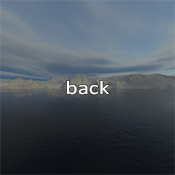
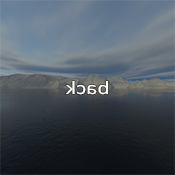
Spheres are see-through with glass shader

Changed region(s): [[0.0, 0.2286, 1.0, 0.5429]]

diff --git a/scene/openglscene.cpp b/scene/openglscene.cpp
@@ -43,31 +43,31 @@ OpenGLScene::~OpenGLScene()
 
 void OpenGLScene::init()
 {
-    m_shader = ResourceLoader::loadShaders(
-            ":/shaders/default.vert",
-            ":/shaders/default.frag");
+//    m_shader = ResourceLoader::loadShaders(
+//            ":/shaders/default.vert",
+//            ":/shaders/default.frag");
     m_cubeShader = ResourceLoader::loadShaders(
                 ":/shaders/cube.vert",
                 ":/shaders/cube.frag");
-//    m_shader = ResourceLoader::loadShaders(
-//                ":/shaders/metal.vert",
-//                ":/shaders/metal.frag");
+    m_shader2 = ResourceLoader::loadShaders(
+                ":/shaders/glass.vert",
+                ":/shaders/glass.frag");
 
-    m_uniformLocs["p"]= glGetUniformLocation(m_shader, "p");
-    m_uniformLocs["m"]= glGetUniformLocation(m_shader, "m");
-    m_uniformLocs["v"]= glGetUniformLocation(m_shader, "v");
-    m_uniformLocs["allBlack"]= glGetUniformLocation(m_shader, "allBlack");
-    m_uniformLocs["useLighting"]= glGetUniformLocation(m_shader, "useLighting");
-    m_uniformLocs["ambient_color"] = glGetUniformLocation(m_shader, "ambient_color");
-    m_uniformLocs["diffuse_color"] = glGetUniformLocation(m_shader, "diffuse_color");
-    m_uniformLocs["specular_color"] = glGetUniformLocation(m_shader, "specular_color");
-    m_uniformLocs["shininess"] = glGetUniformLocation(m_shader, "shininess");
-    m_uniformLocs["useTexture"] = glGetUniformLocation(m_shader, "useTexture");
-    m_uniformLocs["tex"] = glGetUniformLocation(m_shader, "tex");
-    m_uniformLocs["useArrowOffsets"] = glGetUniformLocation(m_shader, "useArrowOffsets");
-    m_uniformLocs["blend"] = glGetUniformLocation(m_shader, "blend");
-    m_uniformLocs["repeatU"] = glGetUniformLocation(m_shader, "repeatU");
-    m_uniformLocs["repeatV"] = glGetUniformLocation(m_shader, "repeatV");
+//    m_uniformLocs["p"]= glGetUniformLocation(m_shader, "p");
+//    m_uniformLocs["m"]= glGetUniformLocation(m_shader, "m");
+//    m_uniformLocs["v"]= glGetUniformLocation(m_shader, "v");
+//    m_uniformLocs["allBlack"]= glGetUniformLocation(m_shader, "allBlack");
+//    m_uniformLocs["useLighting"]= glGetUniformLocation(m_shader, "useLighting");
+//    m_uniformLocs["ambient_color"] = glGetUniformLocation(m_shader, "ambient_color");
+//    m_uniformLocs["diffuse_color"] = glGetUniformLocation(m_shader, "diffuse_color");
+//    m_uniformLocs["specular_color"] = glGetUniformLocation(m_shader, "specular_color");
+//    m_uniformLocs["shininess"] = glGetUniformLocation(m_shader, "shininess");
+//    m_uniformLocs["useTexture"] = glGetUniformLocation(m_shader, "useTexture");
+//    m_uniformLocs["tex"] = glGetUniformLocation(m_shader, "tex");
+//    m_uniformLocs["useArrowOffsets"] = glGetUniformLocation(m_shader, "useArrowOffsets");
+//    m_uniformLocs["blend"] = glGetUniformLocation(m_shader, "blend");
+//    m_uniformLocs["repeatU"] = glGetUniformLocation(m_shader, "repeatU");
+//    m_uniformLocs["repeatV"] = glGetUniformLocation(m_shader, "repeatV");
 }
 
 void OpenGLScene::render(Camera *cam)
@@ -89,34 +89,37 @@ void OpenGLScene::render(Camera *cam)
     glUniformMatrix4fv(glGetUniformLocation(m_cubeShader, "p"), 1, GL_FALSE,
             glm::value_ptr(projMatrix));
     glUniformMatrix4fv(glGetUniformLocation(m_cubeShader, "v"), 1, GL_FALSE,
-                       glm::value_ptr(glm::rotate(viewMatrix, (float) M_PI, glm::vec3(0, 1, 0))));
+                       glm::value_ptr(viewMatrix));
+//    glUniformMatrix4fv(glGetUniformLocation(m_cubeShader, "v"), 1, GL_FALSE,
+//                       glm::value_ptr(glm::rotate(viewMatrix, (float) M_PI, glm::vec3(0, 1, 0))));
     glUniform1i(glGetUniformLocation(m_cubeShader, "envMap"), 1);
 
     renderSetting();
 
     glDepthMask(GL_TRUE);
-    glUseProgram(m_shader);
+    glUseProgram(m_shader2);
 
     // Set scene uniforms.
     clearLights();
     setLights(viewMatrix);
-    glUniform1i(m_uniformLocs["useLighting"], m_useLighting);
-    glUniform1i(m_uniformLocs["useArrowOffsets"], GL_FALSE);
-    glUniformMatrix4fv(m_uniformLocs["p"], 1, GL_FALSE,
-            glm::value_ptr(projMatrix));
-    glUniformMatrix4fv(m_uniformLocs["v"], 1, GL_FALSE,
-            glm::value_ptr(viewMatrix));
-    glUniformMatrix4fv(m_uniformLocs["m"], 1, GL_FALSE,
-            glm::value_ptr(m_elements.value(0)->trans));
-    glUniform3f(m_uniformLocs["allBlack"], 1, 1, 1);
+//    glUniform1i(m_uniformLocs["useLighting"], m_useLighting);
+//    glUniform1i(m_uniformLocs["useArrowOffsets"], GL_FALSE);
+//    glUniformMatrix4fv(m_uniformLocs["p"], 1, GL_FALSE,
+//            glm::value_ptr(projMatrix));
+//    glUniformMatrix4fv(m_uniformLocs["v"], 1, GL_FALSE,
+//            glm::value_ptr(viewMatrix));
+//    glUniformMatrix4fv(m_uniformLocs["m"], 1, GL_FALSE,
+//            glm::value_ptr(m_elements.value(0)->trans));
+//    glUniform3f(m_uniformLocs["allBlack"], 1, 1, 1);
 
     // metal stuffs
-//    glUniformMatrix4fv(glGetUniformLocation(m_shader, "view"), 1, GL_FALSE,
-//                       glm::value_ptr(viewMatrix));
-//    glUniformMatrix4fv(glGetUniformLocation(m_shader, "projection"), 1, GL_FALSE,
-//                       glm::value_ptr(cam->getProjectionMatrix()));
-//    glUniformMatrix4fv(glGetUniformLocation(m_shader, "model"), 1, GL_FALSE,
+    glUniformMatrix4fv(glGetUniformLocation(m_shader2, "view"), 1, GL_FALSE,
+                       glm::value_ptr(viewMatrix));
+    glUniformMatrix4fv(glGetUniformLocation(m_shader2, "projection"), 1, GL_FALSE,
+                       glm::value_ptr(cam->getProjectionMatrix()));
+//    glUniformMatrix4fv(glGetUniformLocation(m_shader2, "model"), 1, GL_FALSE,
 //                       glm::value_ptr(m_elements.value(0)->trans));
+    glUniform1i(glGetUniformLocation(m_shader2, "envMap"), 1);
 
 //    glUniform4fv(glGetUniformLocation(m_shader, "lightPosition"), 1, glm::value_ptr(glm::vec4(-5, 5, 5, 1)));
 
@@ -141,26 +144,27 @@ void OpenGLScene::applyMaterial(const CS123SceneMaterial &material)
     // Make sure the members of CS123SceneColor are packed tightly
     COMPILE_TIME_ASSERT(sizeof(CS123SceneColor) == sizeof(float) * 4);
 
-    glUniform3fv(m_uniformLocs["ambient_color"], 1, &material.cAmbient.r);
-    glUniform3fv(m_uniformLocs["diffuse_color"], 1, &material.cDiffuse.r);
-    glUniform3fv(m_uniformLocs["specular_color"], 1, &material.cSpecular.r);
-    glUniform1f(m_uniformLocs["shininess"], material.shininess);
+//    glUniform3fv(m_uniformLocs["ambient_color"], 1, &material.cAmbient.r);
+//    glUniform3fv(m_uniformLocs["diffuse_color"], 1, &material.cDiffuse.r);
+//    glUniform3fv(m_uniformLocs["specular_color"], 1, &material.cSpecular.r);
+//    glUniform1f(m_uniformLocs["shininess"], material.shininess);
 //    glUniform1f(glGetUniformLocation(m_shader, "m"), 0.15);
-//    glUniform1f(glGetUniformLocation(m_shader, "r0"), 0.3f);
+    glUniform1f(glGetUniformLocation(m_shader2, "r0"), 0.25f);
+    glUniform1f(glGetUniformLocation(m_shader2, "eta1D"), 1.f / 1.333f);
 
-    if (material.textureMap && material.textureMap->isUsed && material.textureMap->texid) {
-        glUniform1i(m_uniformLocs["useTexture"], 1);
-        glUniform1i(m_uniformLocs["tex"], 1);
-        glUniform1f(m_uniformLocs["blend"], material.blend);
-        glUniform1f(m_uniformLocs["repeatU"], material.textureMap->repeatU);
-        glUniform1f(m_uniformLocs["repeatV"], material.textureMap->repeatV);
+//    if (material.textureMap && material.textureMap->isUsed && material.textureMap->texid) {
+//        glUniform1i(m_uniformLocs["useTexture"], 1);
+//        glUniform1i(m_uniformLocs["tex"], 1);
+//        glUniform1f(m_uniformLocs["blend"], material.blend);
+//        glUniform1f(m_uniformLocs["repeatU"], material.textureMap->repeatU);
+//        glUniform1f(m_uniformLocs["repeatV"], material.textureMap->repeatV);
 
-        glActiveTexture(GL_TEXTURE1);
-        glBindTexture(GL_TEXTURE_2D, material.textureMap->texid);
-        glActiveTexture(GL_TEXTURE0);
-    } else {
-        glUniform1i(m_uniformLocs["useTexture"], 0);
-    }
+//        glActiveTexture(GL_TEXTURE1);
+//        glBindTexture(GL_TEXTURE_2D, material.textureMap->texid);
+//        glActiveTexture(GL_TEXTURE0);
+//    } else {
+//        glUniform1i(m_uniformLocs["useTexture"], 0);
+//    }
 }
 
 void OpenGLScene::clearLights()
@@ -169,7 +173,7 @@ void OpenGLScene::clearLights()
         std::ostringstream os;
         os << i;
         std::string indexString = "[" + os.str() + "]"; // e.g. [0], [1], etc.
-        glUniform3f(glGetUniformLocation(m_shader, ("lightColors" + indexString).c_str()), 0, 0, 0);
+//        glUniform3f(glGetUniformLocation(m_shader, ("lightColors" + indexString).c_str()), 0, 0, 0);
     }
 }
 
@@ -186,13 +190,13 @@ void OpenGLScene::setLight(const CS123SceneLightData &light)
     {
     case LIGHT_POINT:
         lightType = 0;
-        glUniform3fv(glGetUniformLocation(m_shader, ("lightPositions" + indexString).c_str()), 1,
-                glm::value_ptr(light.pos));
+//        glUniform3fv(glGetUniformLocation(m_shader, ("lightPositions" + indexString).c_str()), 1,
+//                glm::value_ptr(light.pos));
         break;
     case LIGHT_DIRECTIONAL:
         lightType = 1;
-        glUniform3fv(glGetUniformLocation(m_shader, ("lightDirections" + indexString).c_str()), 1,
-                glm::value_ptr(glm::normalize(light.dir)));
+//        glUniform3fv(glGetUniformLocation(m_shader, ("lightDirections" + indexString).c_str()), 1,
+//                glm::value_ptr(glm::normalize(light.dir)));
         break;
     default:
         lightType = -1;
@@ -203,11 +207,11 @@ void OpenGLScene::setLight(const CS123SceneLightData &light)
     CS123SceneColor color = light.color;
     if (ignoreLight) color.r = color.g = color.b = 0;
 
-    glUniform1i(glGetUniformLocation(m_shader, ("lightTypes" + indexString).c_str()), lightType);
-    glUniform3f(glGetUniformLocation(m_shader, ("lightColors" + indexString).c_str()),
-                color.r, color.g, color.b);
-    glUniform3f(glGetUniformLocation(m_shader, ("lightAttenuations" + indexString).c_str()),
-            light.function.x, light.function.y, light.function.z);
+//    glUniform1i(glGetUniformLocation(m_shader, ("lightTypes" + indexString).c_str()), lightType);
+//    glUniform3f(glGetUniformLocation(m_shader, ("lightColors" + indexString).c_str()),
+//                color.r, color.g, color.b);
+//    glUniform3f(glGetUniformLocation(m_shader, ("lightAttenuations" + indexString).c_str()),
+//            light.function.x, light.function.y, light.function.z);
 }
 
 

diff --git a/scene/scene.cpp b/scene/scene.cpp
@@ -90,12 +90,12 @@ void Scene::init()
 
     m_grid = new Grid(5.f);
     m_grid->calcVerts();
-    m_grid->updateGL(m_shader);
+    m_grid->updateGL(m_shader2);
     m_grid->cleanUp();
 
-    m_shape = new MusicShape(150, 70, 0.15f, m_shader);
+    m_shape = new MusicShape(150, 70, 0.15f, m_shader2);
     m_shape->calcVerts();
-    m_shape->updateGL(m_shader);
+    m_shape->updateGL(m_shader2);
     m_shape->cleanUp();
 
     CS123SceneMaterial& mat = m_elements.at(0)->primitive->material;
@@ -120,18 +120,25 @@ void Scene::renderGeometry()
 
     applyMaterial(m_elements.at(0)->primitive->material);
 
-    // Draw the grid.
-    glUniform1i(glGetUniformLocation(m_shader, "functionSize"), 0);
-    glUniform3f(glGetUniformLocation(m_shader, "allWhite"), 1, 1, 1); // make white
-    m_grid->transformAndRender(m_shader, glm::mat4());
+//    // Draw the grid.
+//    glUniform1i(glGetUniformLocation(m_shader, "functionSize"), 0);
+//    glUniform3f(glGetUniformLocation(m_shader, "allWhite"), 1, 1, 1); // make white
+//    m_grid->transformAndRender(m_shader, glm::mat4());
+
+    m_room->bindTexture();
 
     // Draw the shapes.
-    glUniform3f(glGetUniformLocation(m_shader, "allWhite"), 0, 0, 0); // not white
-    m_shape->transformAndRender(m_shader, m_elements.at(0)->trans);
+//    glUniform3f(glGetUniformLocation(m_shader, "allWhite"), 0, 0, 0); // not white
+    m_shape->transformAndRender(m_shader2, m_elements.at(0)->trans);
 
-    m_shape->transformAndRender(m_shader, glm::translate(glm::mat4(), glm::vec3(-2, 0, 0)));
+    m_shape->transformAndRender(m_shader2, glm::translate(
+                                    glm::rotate(glm::mat4(), (float) M_PI / 4.f, glm::vec3(1, 0, 0)),
+                                    glm::vec3(-2, 0, 0)));
+//    m_shape->transformAndRender(m_shader2, glm::rotate(
+//                                    glm::translate(glm::mat4(), glm::vec3(-2, 0, 0)),
+//                                    (float) M_PI / 2.f, glm::vec3(1, 0, 0)));
 
-    m_shape->transformAndRender(m_shader, glm::translate(glm::mat4(), glm::vec3(2, 0, 0)));
+    m_shape->transformAndRender(m_shader2, glm::translate(glm::mat4(), glm::vec3(2, 0, 0)));
 
 }
 

diff --git a/shapes/room.cpp b/shapes/room.cpp
@@ -2,8 +2,8 @@
 #include <QGLWidget>
 #include <QFile>
 
-#define BACK ":/images/front.png"
-#define FRONT ":/images/back.png"
+#define FRONT ":/images/front.png"
+#define BACK ":/images/back.png"
 #define BOTTOM ":/images/bottom.png"
 #define TOP ":/images/top.png"
 #define LEFT ":/images/left.png"
@@ -76,13 +76,19 @@ void Room::makeCubeMap()
 
 void Room::render()
 {
-    glActiveTexture(GL_TEXTURE1);
-    glBindTexture(GL_TEXTURE_CUBE_MAP, m_texID);
-    glActiveTexture(GL_TEXTURE0);
+    bindTexture();
 
     glBindVertexArray(m_vaoID);
     glDrawArrays(GL_TRIANGLE_STRIP, 0, 14);
     glBindVertexArray(0);
+}
+
+
+void Room::bindTexture()
+{
+    glActiveTexture(GL_TEXTURE1);
+    glBindTexture(GL_TEXTURE_CUBE_MAP, m_texID);
+    glActiveTexture(GL_TEXTURE0);
 }
 
 

diff --git a/shapes/shape.cpp b/shapes/shape.cpp
@@ -149,7 +149,7 @@ void Shape::render()
 void Shape::transformAndRender(GLuint shader, glm::mat4 trans)
 {
         glBindVertexArray(m_vaoID);
-        glUniformMatrix4fv(glGetUniformLocation(shader, "m"), 1, GL_FALSE, glm::value_ptr(trans));
+        glUniformMatrix4fv(glGetUniformLocation(shader, "model"), 1, GL_FALSE, glm::value_ptr(trans));
         glUniform1i(glGetUniformLocation(shader, "functionSize"), m_function.size());
         glUniform1fv(glGetUniformLocation(shader, "function"), m_function.size(), m_function.data());
         glDrawArrays(GL_TRIANGLE_STRIP, 0, m_numVerts); /* Number of vertices to draw (w/o normals) */

diff --git a/scene/openglscene.h b/scene/openglscene.h
@@ -65,6 +65,7 @@ protected:
     // The program ID for OpenGL.
     GLuint m_shader;
     GLuint m_cubeShader;
+    GLuint m_shader2;
 
     CS123SceneGlobalData m_global;
     QList<CS123SceneLightData*> m_lights;

diff --git a/shapes/room.h b/shapes/room.h
@@ -13,6 +13,7 @@ public:
     void makeCubeMap();
 
     void render();
+    void bindTexture();
 
 private:
     bool loadTexture(GLuint tex, GLenum side, const QString &filename);
